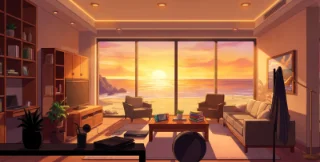
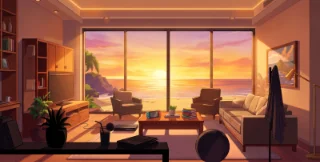
Update break room Add console anim

diff --git a/src/components/babylon/SpriteItem.tsx b/src/components/babylon/SpriteItem.tsx
@@ -31,13 +31,10 @@ export default function SpriteItem({
   z,
   width,
   frameDelay = 60,
-  labelOffsetY = 0,
+  labelOffsetY = 0.25,
   onHover,
 }: SpriteItemProps) {
   const [hovered, setHovered] = useState(false);
-  // onCreated ne s'exécute qu'une fois (création du mesh) : le callback qu'il
-  // enregistre capturerait sinon le label de la langue active au montage, figé
-  // même après un changement de langue. La ref reste à jour à chaque rendu.
   const labelRef = useRef(label);
   useEffect(() => {
     labelRef.current = label;
@@ -77,10 +74,6 @@ export default function SpriteItem({
           mesh.actionManager.registerAction(
             new ExecuteCodeAction(ActionManager.OnPointerOverTrigger, () => {
               setHovered(true);
-              // Position calculée une seule fois à l'entrée du survol : la
-              // recalculer à chaque frame pendant l'orbite caméra faisait
-              // "trembler" le label (léger jitter causé par le re-rendu DOM
-              // en continu).
               const scene = mesh.getScene();
               const camera = scene.activeCamera;
               if (!camera) return;
@@ -88,9 +81,7 @@ export default function SpriteItem({
               const renderWidth = engine.getRenderWidth();
               const renderHeight = engine.getRenderHeight();
               const viewport = camera.viewport.toGlobal(renderWidth, renderHeight);
-              // Ancre au bas de l'objet plutôt qu'à son centre pour que le
-              // label s'affiche juste sous lui, quelle que soit sa taille réelle.
-              const bottom = mesh.position.add(new Vector3(0, -height / 2 + labelOffsetY, 0));
+              const bottom = mesh.position.add(new Vector3(0, height / 2 + labelOffsetY, 0));
               const projected = Vector3.Project(bottom, Matrix.Identity(), scene.getTransformMatrix(), viewport);
               onHover({
                 label: labelRef.current,

diff --git a/src/config.ts b/src/config.ts
@@ -74,15 +74,15 @@ export type ItemDef = { x: number; y: number; z: number; width: number; labelOff
 export type SpriteItemDef = ItemDef & { url: string; cellWidth: number; cellHeight: number; frameCount: number };
 
 export const OFFICE_SPRITE_ITEMS: Record<string, SpriteItemDef> = {
-  office_books: { x: -0.95, y: -0.89, z: 4.85, width: 1, url: officeBooks, cellWidth: 175, cellHeight: 140, frameCount: 5 },
-  office_phone: { x: -2.45, y: -0.92, z: 4.85, width: 1.1, url: officePhone, cellWidth: 170, cellHeight: 115, frameCount: 5 },
+  office_books: { x: -0.95, y: -0.72, z: 4.85, width: 1, url: officeBooks, cellWidth: 175, cellHeight: 200, labelOffsetY: 0.1, frameCount: 5 },
+  office_phone: { x: -2.45, y: -0.92, z: 4.85, width: 1.1, url: officePhone, cellWidth: 170, cellHeight: 115, labelOffsetY: 0.3, frameCount: 5 },
   office_computer: { x: 1.8, y: -0.825, z: 4.85, width: 1.45, url: officeComputer, cellWidth: 225, cellHeight: 140, frameCount: 5 },
 };
 
 export const BREAK_ITEMS: Record<string, SpriteItemDef> = {
-  break_dvd: { x: -1.65, y: -3.4, z: 4.85, width: 1.2, url: breakDvd, cellWidth: 275, cellHeight: 100, frameCount: 1 },
-  break_books: { x: 2.45, y: -2.43, z: 4.85, width: 1, url: breakBooks, cellWidth: 180, cellHeight: 135, frameCount: 1 },
-  break_console: { x: 0.15, y: -2.465, z: 4.85, width: 1, url: breakConsole, cellWidth: 165, cellHeight: 110, frameCount: 1 },
+  break_dvd: { x: -2.3, y: -3.1, z: 4.85, width: 1.3, url: breakDvd, cellWidth: 275, cellHeight: 100, frameCount: 1 },
+  break_books: { x: 2.1, y: -2.19, z: 4.85, width: 1.1, url: breakBooks, cellWidth: 180, cellHeight: 135, frameCount: 1 },
+  break_console: { x: -0.5, y: -2.22, z: 4.85, width: 1.1, url: breakConsole, cellWidth: 165, cellHeight: 115, frameCount: 5 },
 };
 
 export const MEETING_ITEMS: Record<string, SpriteItemDef> = {

diff --git a/src/components/babylon/scene/BreakRoom.tsx b/src/components/babylon/scene/BreakRoom.tsx
@@ -6,7 +6,7 @@ import { BREAK_ITEMS, type ItemHover, type Language } from '../../../config';
 import { t, type TranslationKey } from '../../../lang';
 
 const LAYER_DEPTH = 5;
-const SUN_Z = 2 * LAYER_DEPTH - 1.7;
+const SUN_Z = 2 * LAYER_DEPTH - 1.5;
 
 type BreakRoomProps = {
   assets: Record<string, Texture>;
@@ -24,7 +24,7 @@ export default function BreakRoom({ assets, language, onHover }: BreakRoomProps)
     <>
       <pointLight
         name="sun"
-        position={new Vector3(-0.1, 0.6, SUN_Z)}
+        position={new Vector3(0, 0.6, SUN_Z)}
         diffuse={new Color3(1, 0.95, 0.85)}
         intensity={0.8}
       />

diff --git a/src/lang.ts b/src/lang.ts
@@ -32,7 +32,7 @@ const translations = {
       break_dvd: 'Films',
       break_books: 'Romans',
       break_console: 'Jeux indés',
-      meeting_robot: 'Discussion',
+      meeting_robot: 'À propos',
     },
   },
   en: {
@@ -66,7 +66,7 @@ const translations = {
       break_dvd: 'Movies',
       break_books: 'Novels',
       break_console: 'Indie games',
-      meeting_robot: 'Discussion',
+      meeting_robot: 'About',
     },
   },
 } as const satisfies Record<Language, unknown>;

diff --git a/src/components/main/overlay/ItemTooltip.module.css b/src/components/main/overlay/ItemTooltip.module.css
@@ -10,11 +10,11 @@
   transform: translate(-50%, -25%);
   color: #fff;
   font-weight: 600;
-  font-size: 18px;
+  font-size: 20px;
   white-space: nowrap;
   text-shadow:
-    -2px -2px 0 #000,
-    2px -2px 0 #000,
-    -2px 2px 0 #000,
-    2px 2px 0 #000;
+          -1px -1px 0 #000,
+          1px -1px 0 #000,
+          -1px 1px 0 #000,
+          1px 1px 0 #000;
 }

diff --git a/src/App.css b/src/App.css
@@ -1,0 +1,3 @@
+body {
+    background-color: black;
+}
